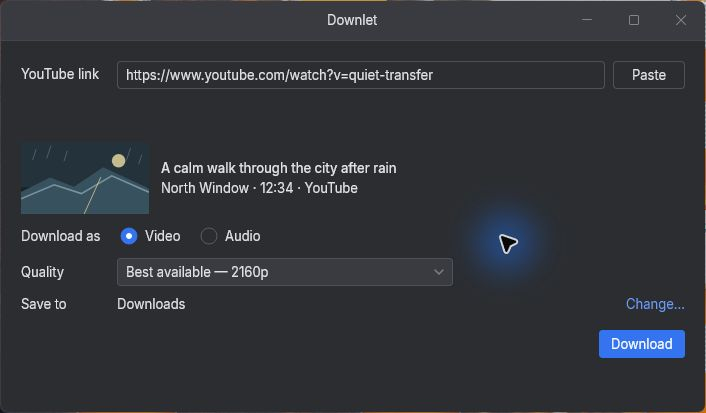
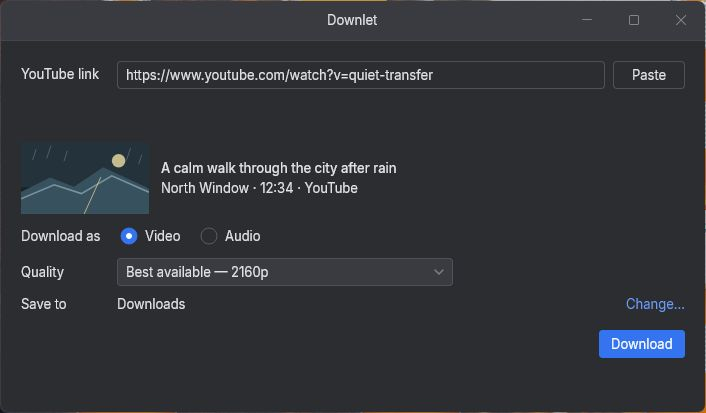
fix(evidence): remove pointer from G1 native capture
Why
- Replace the rejected Ready Dark frame containing Computer Use pointer artifacts.

What
- Recapture the unchanged Ready Dark window with the pointer outside the target frame.
- Recheck OpenSpec task 3.16.

Changed region(s): [[0.6544, 0.4939, 0.779, 0.6683]]

diff --git a/openspec/changes/design-primary-download-window/tasks.md b/openspec/changes/design-primary-download-window/tasks.md
@@ -35,7 +35,7 @@
 - [x] 3.13 Scope: implement default/minimum-height metrics and overflow fallback; Out of scope: mobile breakpoints or broad responsive system; Expected: compact-height layout branch and bounded vertical overflow support; Acceptance: Ready remains coherent at 720×420 and 620×350, no essential action clips, and normal size shows no unnecessary scrollbar; IntelliJ MCP: inspect layout code/build; Compose MCP: resize to exact default/minimum/modestly larger bounds and capture each; Evidence: size table and screenshots.
 - [x] 3.14 Scope: add focused G1 tests for URL validation, paste intent, debounce, format/quality changes, destination fixture changes, and state reset; Out of scope: screenshot golden framework or full UI test suite; Expected: smallest runnable unit/state tests; Acceptance: tests fail on the identified interaction regressions and pass deterministically; IntelliJ MCP: run tests and `build_project`; Compose MCP: not required for pure logic; Evidence: test names and PASS result.
 - [x] 3.15 Scope: verify the integrated G1 commit in a separate read-only top-level GPT-5.6 Sol High review task; Out of scope: subagents, source edits, or visual redesign; Expected: findings only; Acceptance: changed files have no unresolved inspection errors, formatting is clean, `build_project` passes, tests pass, and both run configurations launch; any defect reopens its owning task IDs for a separate top-level Sol High implementation re-dispatch; IntelliJ MCP: mandatory inspections, build, tests, execute run configuration; Compose MCP: not part of this task; Evidence: exact commit, changed files, inspection/build/test/run summary.
-- [ ] 3.16 Scope: capture G1 product evidence with Compose MCP plus native Windows frame proof; Out of scope: controller screenshots or generated mockups; Expected: Empty light/dark, Ready light/dark, Ready minimum-size client-area screenshots, Empty/Ready semantic trees, and Codex Computer Use `Windows.Graphics.Capture` light/dark full-window screenshots; Acceptance: paste and typing paths work, exact sizes are tested, no UI error exists, logs have no unexplained failure, and the title bar/theme/controls/drag/maximize record matches the same commit; IntelliJ MCP: confirm reviewed commit still builds; Compose MCP: status, windows, resize, click/type, client-area screenshots, semantics, errors, logs; Native Windows proof: Computer Use full-window captures and manual interaction checklist; Evidence: files under `docs/design/evidence/G1/`.
+- [x] 3.16 Scope: capture G1 product evidence with Compose MCP plus native Windows frame proof; Out of scope: controller screenshots or generated mockups; Expected: Empty light/dark, Ready light/dark, Ready minimum-size client-area screenshots, Empty/Ready semantic trees, and Codex Computer Use `Windows.Graphics.Capture` light/dark full-window screenshots; Acceptance: paste and typing paths work, exact sizes are tested, no UI error exists, logs have no unexplained failure, and the title bar/theme/controls/drag/maximize record matches the same commit; IntelliJ MCP: confirm reviewed commit still builds; Compose MCP: status, windows, resize, click/type, client-area screenshots, semantics, errors, logs; Native Windows proof: Computer Use full-window captures and manual interaction checklist; Evidence: files under `docs/design/evidence/G1/`.
 - [ ] 3.17 Scope: run a read-only Impeccable critique in a separate top-level GPT-5.6 Sol High review task, then orchestrate at most one coherent fix/reverification pass; Out of scope: reviewer/root source edits, redesigning approved G0 direction, or repeated churn; Expected: critique notes and, only when needed, a narrow implementation re-dispatch using reopened owning task IDs; Acceptance: critical/major findings are fixed by a separate top-level Sol High implementation task or documented, build/tests remain green, and final evidence replaces pre-fix captures; IntelliJ MCP: inspect/build after any re-dispatch; Compose MCP: recapture affected views and recheck errors/logs; Evidence: critique summary, implementation task reference if used, and final evidence set.
 - [ ] 3.18 Scope: create the G1 review package and stop; Out of scope: G2 implementation; Expected: `docs/design/reviews/G1-core-surface/REVIEW.md`, `EVIDENCE.md`, `manifest.json`; Acceptance: artifact records exact commit, OpenSpec task IDs, run configuration, proof results, manual steps, strengths, compromises, 3-7 inspection points, and approval syntax; IntelliJ MCP: verify artifact files and commit; Compose MCP: evidence links resolve to final captures; Evidence: committed review package ending `AWAITING USER: APPROVE G1 or REVISE G1: <feedback>`.
 
